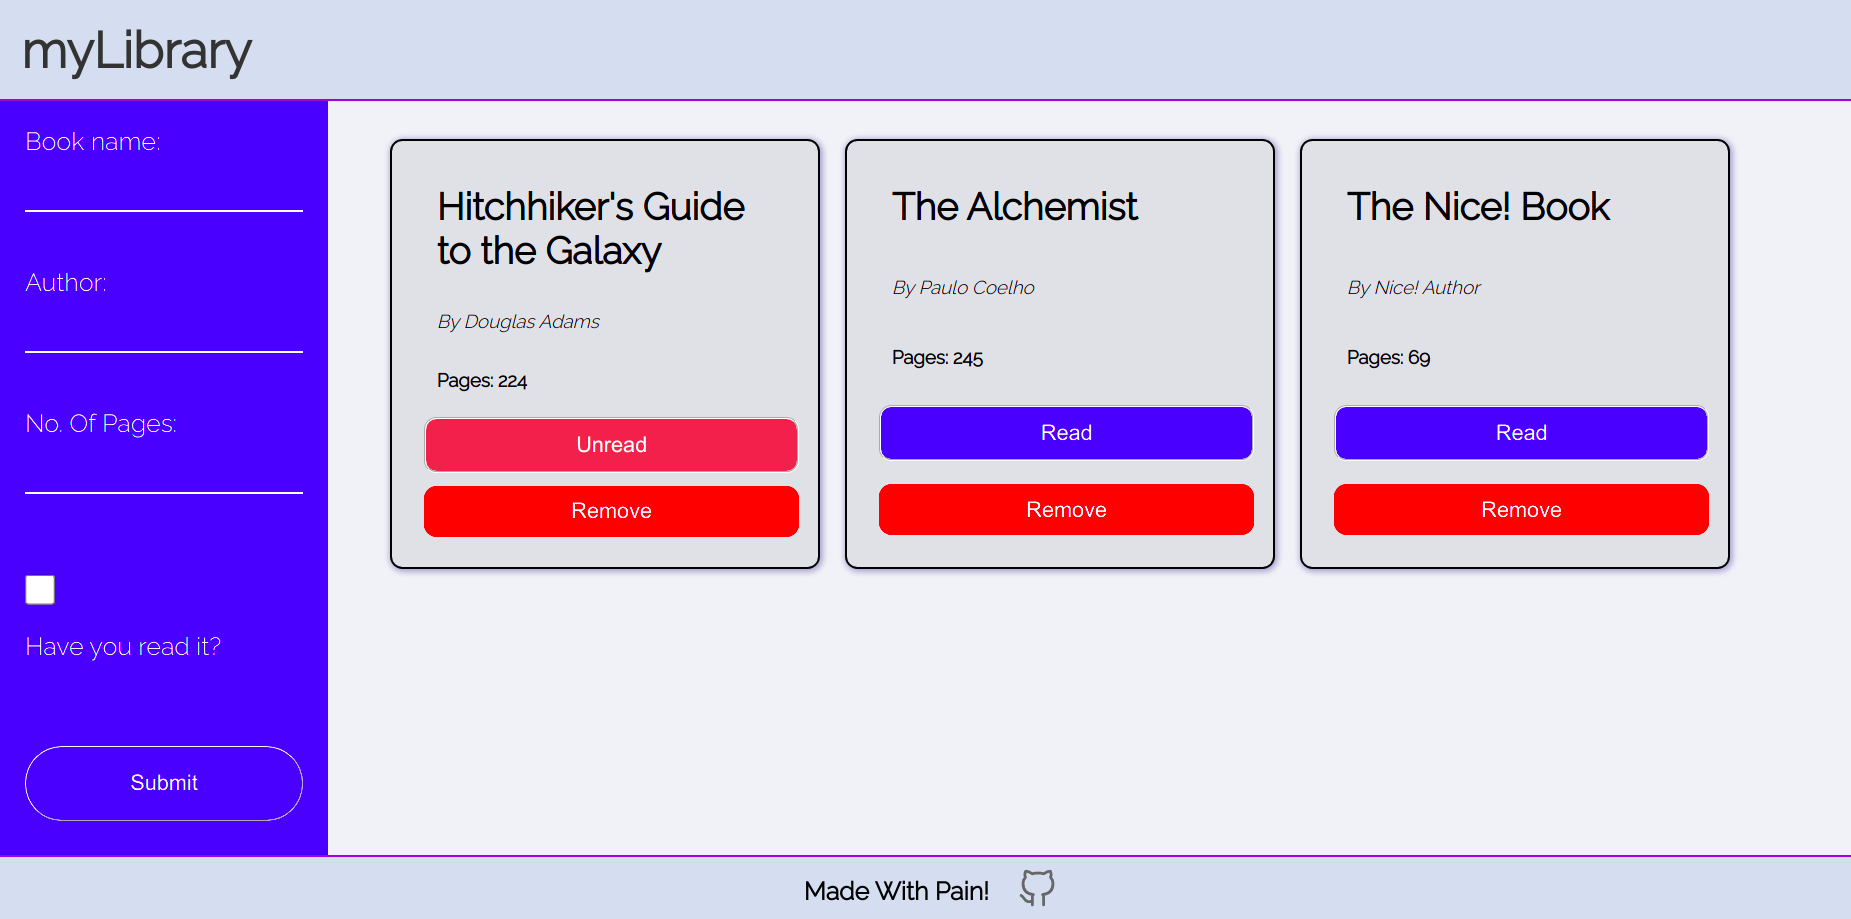
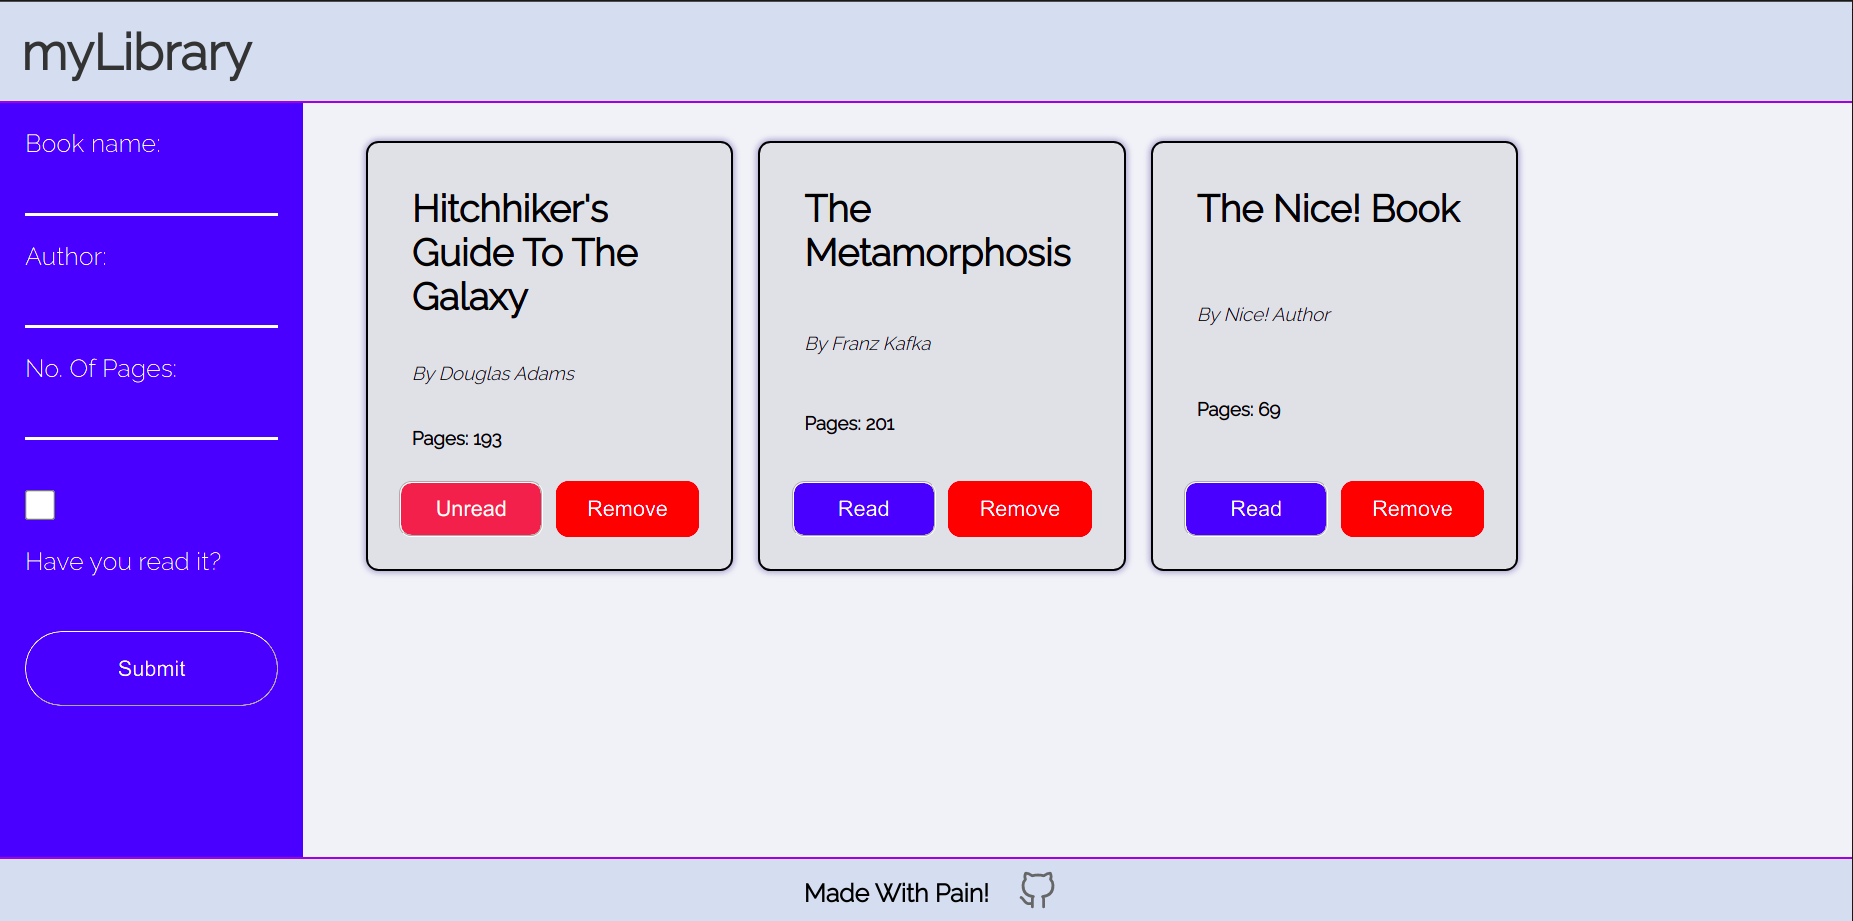
Design changes. UI changes.

diff --git a/index.html b/index.html
@@ -1,51 +1,45 @@
 <!DOCTYPE html>
 <html lang="en">
-<head>
-    <meta charset="UTF-8">
-    <meta http-equiv="X-UA-Compatible" content="IE=edge">
-    <meta name="viewport" content="width=device-width, initial-scale=1.0">
-    <link rel="stylesheet" type="text/css" href="style.css" media="all">
-    <script src="script.js" defer></script>
-    <title>Library</title>
-</head>
-<body>
-    
-    <header>
-    <h1>myLibrary</h1>
-</header>
+    <head>
+        <meta charset="UTF-8">
+        <meta http-equiv="X-UA-Compatible" content="IE=edge">
+        <meta name="viewport" content="width=device-width, initial-scale=1.0">
+        <link rel="stylesheet" type="text/css" href="style.css" media="all">
+        <script src="script.js" defer></script>
+        <title>Library</title>
+    </head>
+    <body>
+        <header>
+            <h1>myLibrary</h1>
+        </header>
 
-<main>
-    <div class="add-screen">
-        <form accept="/script.js">
-            <label for="name">Book name:</label>
-            <input type="text" id="book" name="book" value="" required><br>
-            <label for="author">Author:</label>
-            <input type="text" id="author" name="author" value="" required><br>
-            <label for="pages">No. Of Pages:</label>
-            <input type="text" id="pages" name="pages" value="" required><br>
-            <input class="checkbox" type="checkbox" id="isRead">
-            <label for="is-read">Have you read it?</label><br><br>
-            <input type="submit" id="submit" value="Submit">
-            </form>           
-    </div>
+        <main>
+            <div class="add-screen">
+                <form accept="/script.js">
+                    <label for="name">Book name:</label>
+                    <input type="text" id="book" name="book" value="" required>
+                    <label for="author">Author:</label>
+                    <input type="text" id="author" name="author" value="" required>
+                    <label for="pages">No. Of Pages:</label>
+                    <input type="text" id="pages" name="pages" value="" required>
+                    <input class="checkbox" type="checkbox" id="isRead">
+                    <label for="is-read">Have you read it?</label><br>
+                    <input type="submit" id="submit" value="Submit" onclick="submitDetails()">
+                    </form>           
+            </div>
 
-    
-    <div class="books">
-        
-    </div>
-</main>
-<footer>
-    <footer>
-    <b>
-        Made With Pain!
-    </b>
-    <a href="https://github.com/asdhamidi/library" target="_blank" rel="noopener">
-        <svg xmlns="http://www.w3.org/2000/svg" class="icon icon-tabler icon-tabler-brand-github" width="48" height="48" viewBox="0 0 24 24" stroke-width="1.5" stroke="#666" fill="none" stroke-linecap="round" stroke-linejoin="round">
-            <path stroke="none" d="M0 0h24v24H0z" fill="none"/>
-            <path d="M9 19c-4.3 1.4 -4.3 -2.5 -6 -3m12 5v-3.5c0 -1 .1 -1.4 -.5 -2c2.8 -.3 5.5 -1.4 5.5 -6a4.6 4.6 0 0 0 -1.3 -3.2a4.2 4.2 0 0 0 -.1 -3.2s-1.1 -.3 -3.5 1.3a12.3 12.3 0 0 0 -6.2 0c-2.4 -1.6 -3.5 -1.3 -3.5 -1.3a4.2 4.2 0 0 0 -.1 3.2a4.6 4.6 0 0 0 -1.3 3.2c0 4.6 2.7 5.7 5.5 6c-.6 .6 -.6 1.2 -.5 2v3.5" />
-        </svg>
-    </a>  
-</footer>
-</footer>
-</body>
+            <div class="books"></div>
+        </main>
+        <footer>
+            <b>
+                Made With Pain!
+            </b>
+            <a href="https://github.com/asdhamidi/library" target="_blank" rel="noopener">
+                <svg xmlns="http://www.w3.org/2000/svg" class="icon icon-tabler icon-tabler-brand-github" width="48" height="48" viewBox="0 0 24 24" stroke-width="1.5" stroke="#666" fill="none" stroke-linecap="round" stroke-linejoin="round">
+                    <path stroke="none" d="M0 0h24v24H0z" fill="none"/>
+                    <path d="M9 19c-4.3 1.4 -4.3 -2.5 -6 -3m12 5v-3.5c0 -1 .1 -1.4 -.5 -2c2.8 -.3 5.5 -1.4 5.5 -6a4.6 4.6 0 0 0 -1.3 -3.2a4.2 4.2 0 0 0 -.1 -3.2s-1.1 -.3 -3.5 1.3a12.3 12.3 0 0 0 -6.2 0c-2.4 -1.6 -3.5 -1.3 -3.5 -1.3a4.2 4.2 0 0 0 -.1 3.2a4.6 4.6 0 0 0 -1.3 3.2c0 4.6 2.7 5.7 5.5 6c-.6 .6 -.6 1.2 -.5 2v3.5" />
+                </svg>
+            </a>
+        </footer>
+    </body>
 </html>

diff --git a/script.js b/script.js
@@ -1,5 +1,4 @@
 // Data Structures.
-
 class Book
 {
     constructor(title, author, pages, read) {
@@ -31,6 +30,11 @@ class Lib
         return this.books;
     }
 
+    lastBook()
+    {
+        return this.books[this.libSize() - 1];
+    }
+
     libSize()
     {
         return this.books.length;
@@ -46,12 +50,7 @@ class Lib
 let Library = new Lib();
 
 let submit = document.getElementById("submit");
-let books = document.querySelector(".books");
-let remove = document.querySelectorAll(".remove");
-let readStatus = document.querySelectorAll(".status");
-
-// Event Listeners
-submit.addEventListener("click", submitDetails);
+let books = document.querySelector(".books"); // Element which holds all the book cards
 
 // Function to insert new book details
 function submitDetails()
@@ -63,7 +62,6 @@ function submitDetails()
     
         addNewBook();
         clearForm();
-        updateButtons();
     }
 }
 
@@ -72,9 +70,8 @@ function removeBook(e)
 {
     let btn = e.target;
     console.log(btn.parentNode);
-    books.removeChild(btn.parentNode);
+    books.removeChild(btn.parentNode.parentNode);
     Library.remove(btn.parentNode.querySelector("h1").textContent);
-    updateButtons();
 }
 
 // Function to change read status of a book
@@ -86,7 +83,6 @@ function readStatusChange(e)
     btn.textContent = "Unread";
     else
     btn.textContent = "Read";
-    updateButtons();
 }
 
 // Function to get data from the form
@@ -99,18 +95,18 @@ function getDetails()
     return new Book(book, author, pages, read);
 }
 
-// Updates
+// Updates the Library view by adding a new book element
 function addNewBook()
 {
-    let booklist = Library.bookList();
-    books.appendChild(createBookNode(booklist[booklist.length - 1]));
+    books.appendChild(createBookNode(Library.lastBook()));
 }
 
+// Creates a new Book element to be added to the main
 function createBookNode(book)
 {
     let nbook = document.createElement("div");
     nbook.classList.add("book");
-
+    
     let title = document.createElement("h1");
     title.textContent = `${book.title}`;
     nbook.appendChild(title);
@@ -118,10 +114,13 @@ function createBookNode(book)
     let author = document.createElement("i");
     author.textContent = `By ${book.author}`;
     nbook.appendChild(author);
-
+    
     let pages = document.createElement("b");
     pages.textContent = `Pages: ${book.pages}`;
     nbook.appendChild(pages);
+    
+    let buttonbox = document.createElement("div");
+    buttonbox.classList.add("buttons");
 
     let read = document.createElement("button");
     read.classList.add("status");
@@ -133,18 +132,20 @@ function createBookNode(book)
     else
     read.textContent = `Unread`;
     read.onclick = readStatusChange;
-    nbook.appendChild(read);
+    buttonbox.appendChild(read);
     
     let remove = document.createElement("button");
     remove.classList.add("remove");
     remove.textContent = `Remove`;
     remove.onclick = removeBook;
-    nbook.appendChild(remove);
+    buttonbox.appendChild(remove);
     
+    nbook.appendChild(buttonbox);
 
     return nbook;
 }
 
+// Clears the form after input
 function clearForm() {
     document.getElementById("book").value = "";
     document.getElementById("author").value = "";
@@ -152,11 +153,7 @@ function clearForm() {
     document.getElementById("isRead").checked = false;
 }
 
-function updateButtons () {
-    remove = document.querySelectorAll(".remove");
-    readStatus = document.querySelectorAll(".status");
-}
-
+// Failsafe function to check if fields are not empty and pages variable is actually a number.
 function failsafe(book)
 {
     if(book.title == "" || book.author == "" || book.pages == "1")

diff --git a/style.css b/style.css
@@ -44,25 +44,36 @@ main {
     padding: 1rem;
     margin: 0.5rem;
     flex: 0 1 auto;
-    width: 300px;
+    width: 250px;
     height: 300px;
     border: 2px solid black;
-    box-shadow: 1px 1px 5px 1px #0075;
+    box-shadow: 0 0 5px 1px #0075;
     border-radius: 10px;
     font-size: 0.75rem;
     background-color: #e0e2e7;
+    transition: all ease-in-out 300ms;
 }
 
+.buttons {
+    display: flex;
+    justify-content: space-between;
+}
+
+.book:hover {
+    box-shadow: 0 0 10px 3px #0075;
+}
 
 .status, .remove {
     box-sizing: border-box;
-    width: 100%;
+    width: 50%;
+    display: inline;
     padding: 0.5rem;
     border-radius: 10px;
     border: 2px groove white;
     margin: 0.25rem;
     color: white;
     background-color: #D55;
+    transition: all ease-in-out 300ms;
 }
 
 .status:hover {
@@ -80,12 +91,18 @@ main {
 .remove {
     background-color: red;
     border: none;
+    transition: all ease-in-out 300ms;
+}
+
+.remove:hover {
+    box-shadow: 0 0 5px 2px gray;
 }
 .add-screen {
     display: flex;
     flex-direction: column;
     padding: 1rem;
-    width: 15vw;
+    width: auto;
+    flex-shrink: 0;
     color: white;
     background-color: #1212FF;
     font-size: 1rem;
@@ -99,14 +116,15 @@ form {
 form input {
     border: none;
     background: transparent;
-    border-bottom: 2px solid white;
+    border-bottom: 3px solid white;
     margin: 1rem 0;
     color: white;
+    transition: all ease-in-out 300ms;
 }
 
-form input:focus-visible {
+form input:focus-visible, form input:hover {
     outline: none;
-    border-bottom: 2px solid #5f5;
+    border-bottom: 3px solid yellow;
 }
 
 .checkbox {
@@ -119,10 +137,11 @@ form input:focus-visible {
     color: white;
     height: 3rem;
     border-radius: 3rem;
+    transition: all ease-in-out 300ms;
 }
 
 #submit:hover {
-    background-color: white;
+    background-color: #FF2;
     color: black;
 }
 footer {

diff --git a/README.md b/README.md
@@ -1,4 +1,4 @@
-# Etch a Sketch
+# Library
 Library web app created with HTML, CSS and JS.
 (Made as a part of The Odin Project.)
 
